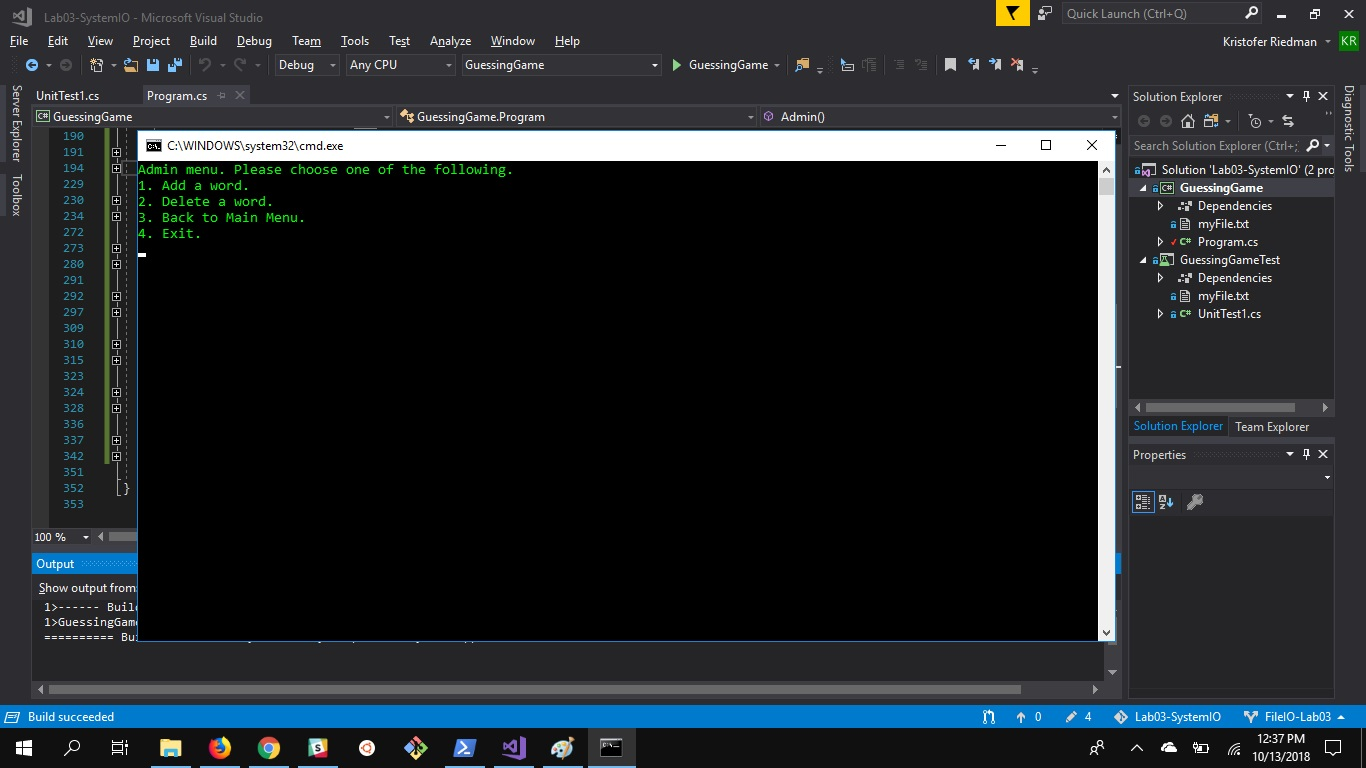
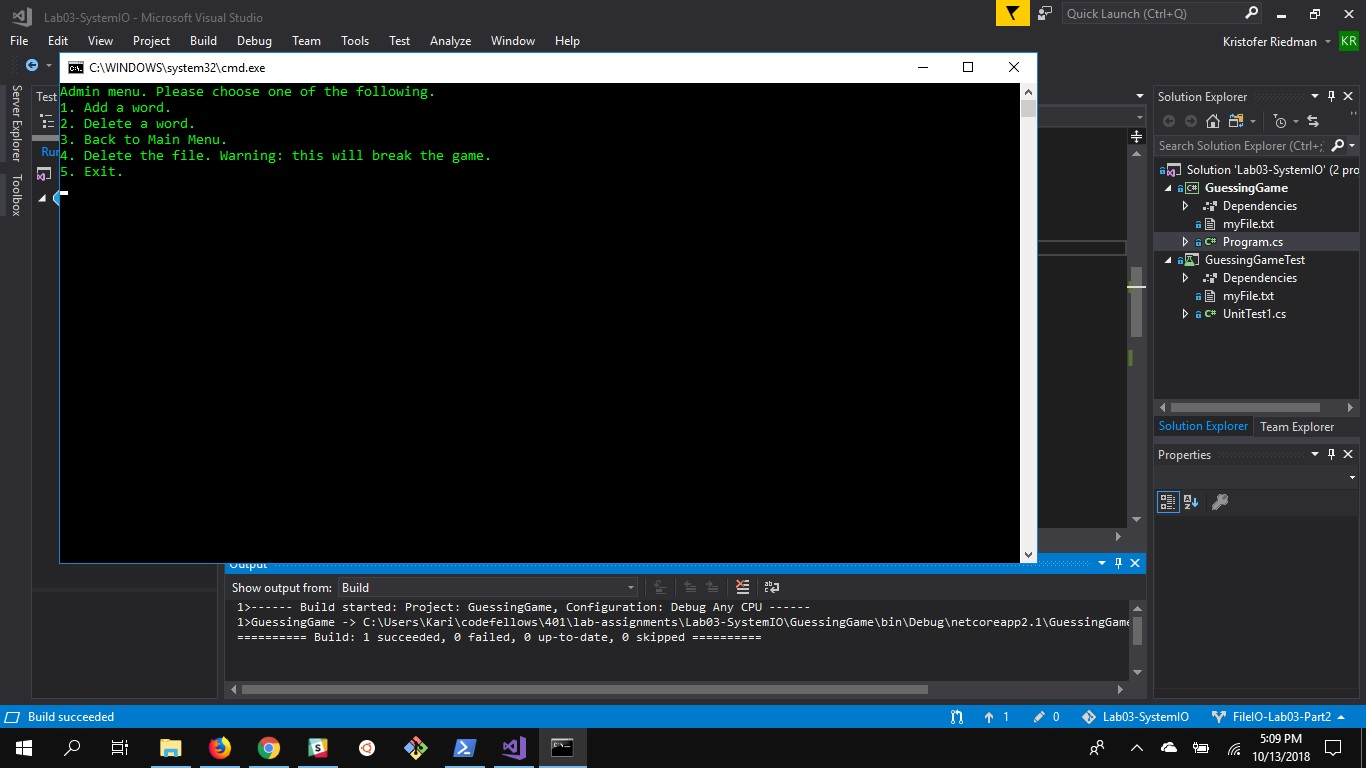
created a file method invoked, added new image

Changed region(s): [[0.0, 0.0625, 1.0, 0.9688], [0.369, 0.9375, 0.4919, 1.0], [0.0, 0.875, 0.1845, 0.9062]]

diff --git a/GuessingGame/Program.cs b/GuessingGame/Program.cs
@@ -177,6 +177,7 @@ namespace GuessingGame
             switch (userInput)
             {
                 case 1:
+                    CreateFile(path);
                     GuessingGame(RandomNumberGenerator());
                     break;
                 case 2:
